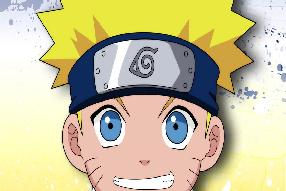
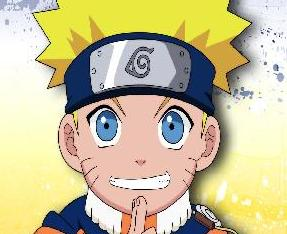
图像上传第二版，先压缩再截取图片

diff --git a/src/main/java/simples/controller/UserController.java b/src/main/java/simples/controller/UserController.java
@@ -1,5 +1,7 @@
 package simples.controller;
 
+import com.sun.image.codec.jpeg.JPEGCodec;
+import com.sun.image.codec.jpeg.JPEGImageEncoder;
 import org.apache.shiro.SecurityUtils;
 import org.apache.shiro.session.Session;
 import org.apache.shiro.subject.Subject;
@@ -55,8 +57,6 @@ public class UserController {
         int end = fileName.lastIndexOf(".");
         String saveName = fileName.substring(0, end);
         String resourcePath = "resources/uploadImages/";
-        System.out.println(realPath);
-        System.out.println(saveName);
         File dir = new File(realPath + resourcePath);
         if (!dir.exists()) {
             dir.mkdirs();
@@ -69,7 +69,6 @@ public class UserController {
             e.printStackTrace();
         }
         String srcImageFile = realPath + resourcePath + saveName;
-        System.out.println("@@@@@@@@@@@"+x + "," + "y" +"," +h +"," + w);
         int imageX = Integer.parseInt(x);
         int imageY = Integer.parseInt(y);
         int imageH = Integer.parseInt(h);
@@ -106,17 +105,19 @@ public class UserController {
 
     public void imgCut(String srcImageFile, int x, int y, int desWidth,
                        int desHeight,int originalW,int originalH) {
-        try {
+            try {
+            String realPath = srcImageFile + "_src.jpg";
+            this.resize(realPath,originalW,originalH);
             Image img;
             ImageFilter cropFilter;
-            BufferedImage bi = ImageIO.read(new File(srcImageFile + "_src.jpg"));
-            int srcWidth = originalW;
-            int srcHeight = originalW;
+            BufferedImage bi = ImageIO.read(new File(realPath));
+            int srcWidth = bi.getWidth();
+            int srcHeight = bi.getHeight();
             if (srcWidth >= desWidth && srcHeight >= desHeight) {
-                Image image = bi.getScaledInstance(srcWidth, srcHeight, Image.SCALE_DEFAULT);
+                Image imagee = bi.getScaledInstance(srcWidth, srcHeight, Image.SCALE_DEFAULT);
                 cropFilter = new CropImageFilter(x, y, desWidth, desHeight);
                 img = Toolkit.getDefaultToolkit().createImage(
-                        new FilteredImageSource(image.getSource(), cropFilter));
+                        new FilteredImageSource(imagee.getSource(), cropFilter));
                 BufferedImage tag = new BufferedImage(desWidth, desHeight,
                         BufferedImage.TYPE_INT_RGB);
                 Graphics g = tag.getGraphics();
@@ -132,6 +133,26 @@ public class UserController {
         }
     }
 
+    /**
+     * 压缩图片到置顶大小
+     * @param
+     * @param
+     */
+    public void resize(String srcImagePath,int originalW,int originalH) throws IOException{
+        Image img = ImageIO.read(new File(srcImagePath));// Image对象
+        BufferedImage image = new BufferedImage(originalW, originalH, BufferedImage.TYPE_INT_RGB);// 生成缩略图片
+        image.getGraphics().drawImage(img, 0, 0, originalW, originalH, null);// 绘制缩小后的图
+        FileOutputStream  out = new FileOutputStream(new File(srcImagePath ));// 输出到文件流
+        JPEGImageEncoder encoder = JPEGCodec.createJPEGEncoder(out);
+        encoder.encode(image);
+    }
+
+
+    /**
+     * 显示图片
+     * @param request
+     * @param response
+     */
     @RequestMapping("/loadImage")
     public void loadImage(HttpServletRequest request,HttpServletResponse response){
         Subject subject = SecurityUtils.getSubject();
@@ -141,7 +162,6 @@ public class UserController {
         OutputStream os;
         try {
             os = response.getOutputStream();//定义一个输出流
-
             if (username!=null)
             {
                 byte [] imageUrl= user.getImageUrl();
@@ -154,7 +174,6 @@ public class UserController {
                 os.flush();
                 os.close();
             }
-
         } catch (IOException e) {
 
             e.printStackTrace();
